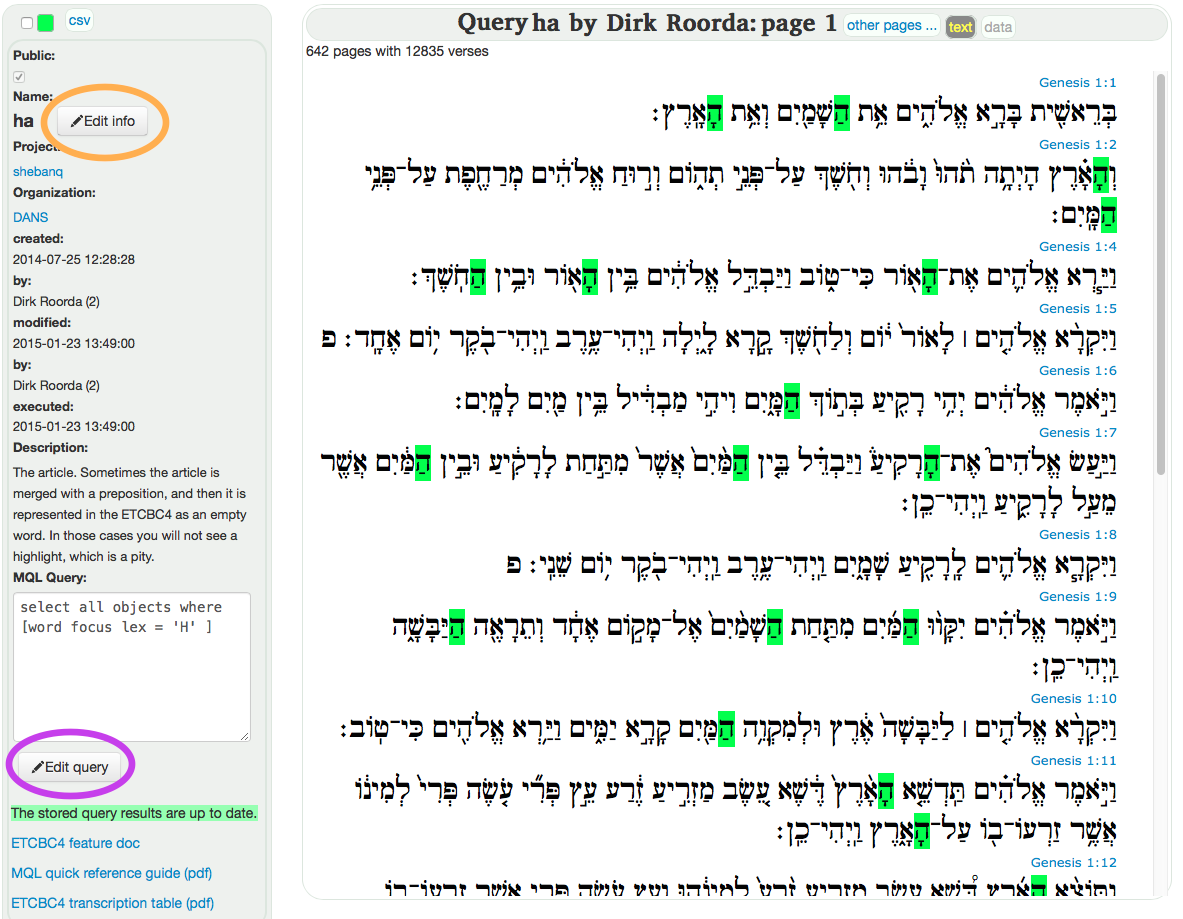
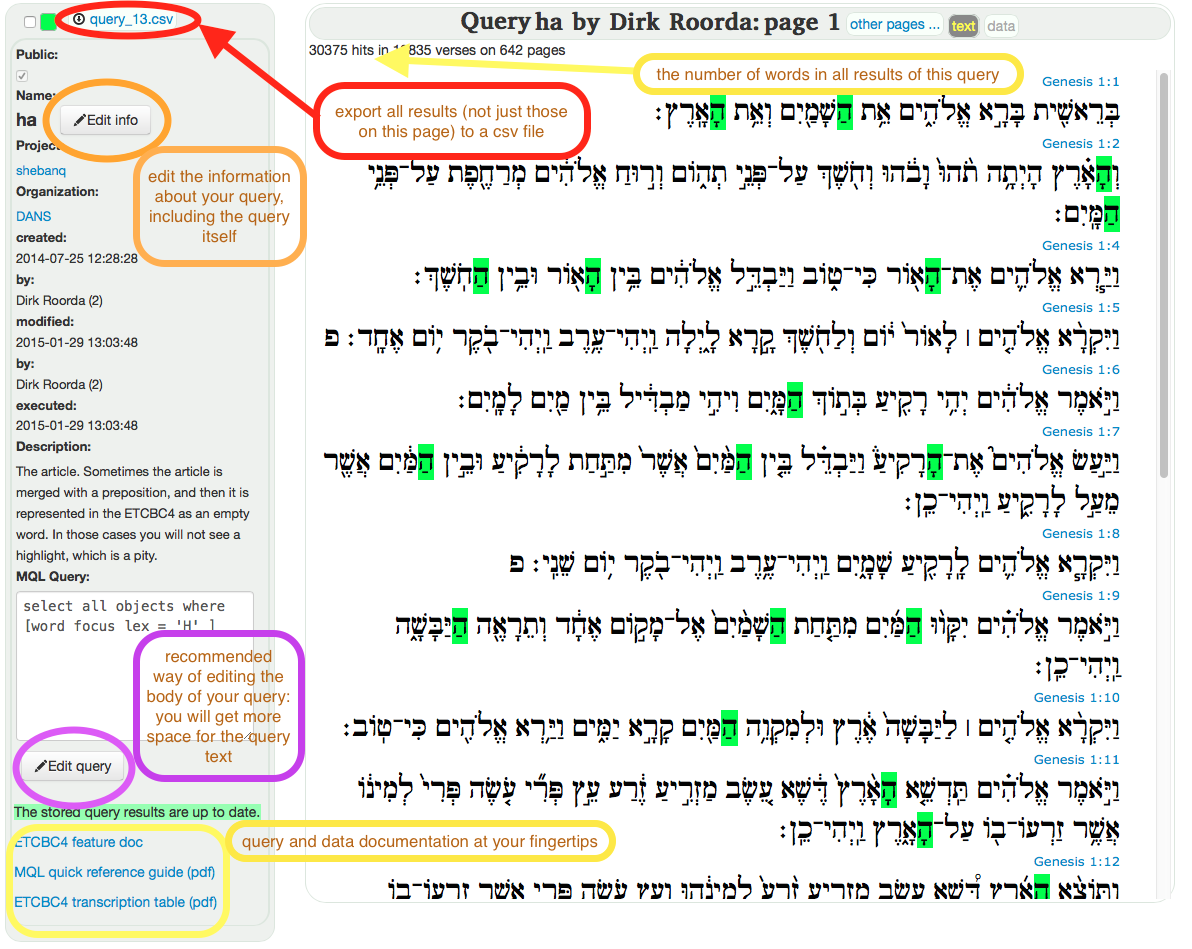
bugfix

Changed region(s): [[0.0, 0.0, 0.9434, 1.0], [0.9738, 0.0609, 1.0, 0.518]]

diff --git a/views/default/help.html b/views/default/help.html
@@ -99,16 +99,17 @@ where you can view its results and all its details. From here you can also edit 
 <h5>Developing a query</h5>
 <p>You can develop a query from its dedicated page.</p>
 <p><img src="{{=URL('static', 'images/help-query.png')}}"/></p>
-<p>Next to the name field is an <i>Edit info</i> icon (orange circle) by which you can edit the information about your query, including the query itself.
-However, the recommended way of editing the body of your query is by clicking the <i>Edit query</i> icon.
-The page will make space for your query, you can edit and run it in a quick cycle from there.</p>
+<p>There are two edit buttons, the upper one is best for editing metadata, and the lower one is best for editing your query body,
+because it takes you to a screen from where you can repeatedly save en execute your query and inspect the results.</p> 
+<p>When you execute your query, messages will appear right below the <i>Execute</i> button.
+The query will be saved as well.
+If you have changed your query <i>body</i>, saved it, but not executed it, you will get an indication that the currently stored results are outdated.</p>
+<p><b>Hint 2</b>: Queries with outdated results will not show up in the sidebar!</p>
 <p>And, when you are at it, take the opportunity to provide a decent description of your query for the benefit of others.</p>
 <p><img src="{{=URL('static', 'images/help-edit_query.png')}}"/></p>
 <p>By checking the <i>Public</i> checkbox, you indicate that this query may show up in the list of Public Queries and in the sidebar next to
 chapters that contain results of this query.</p>
-<p>When you edit your query, a timestamp will be added. This stamp contains the point in time that the query <i>body</i> was last changed.
-If you merely edit the description or other metadata, this timestamp will not be changed. The timestamp is used to
-determine whether your query results are up to date or outdated. Outdated queries will not show up in the sidebar.</p>
+<p><b>Hint 3</b>: You can export all query results as a comma separated file. More about that below.</p>
 
 <h4>{{=T('Citation and sharing')}}</h4>
 <p>You can cite individual queries and words by means of an <i>url</i>:</p>

diff --git a/controllers/hebrew.py b/controllers/hebrew.py
@@ -102,6 +102,7 @@ def material_c(mr, qw, bk, iid, ch, page, tp):
         result = dict(
             mr=mr,
             qw=qw,
+            hits=0,
             msg="No chapter selected" if not chapter else None,
             results=len(material.verses) if material else 0,
             pages=1,
@@ -141,6 +142,8 @@ def material_c(mr, qw, bk, iid, ch, page, tp):
                 material=material,
                 monads=json.dumps(monads),
             )
+    else:
+        result = dict()
     #print 'RECOMPUTED: verses_{}:{}_{}:{}'.format(mr, bk if mr=='m' else iid, ch if mr=='m' else page, tp)
     return response.render(result)
 
